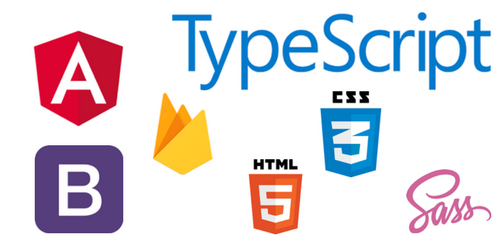
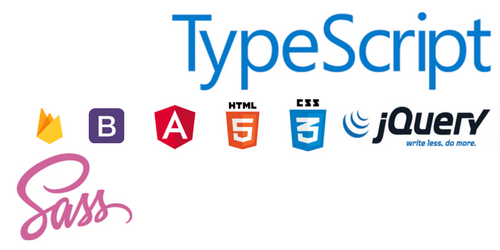
README.md

diff --git a/README.md b/README.md
@@ -6,9 +6,24 @@
     <img src="src/assets/img/header.png" alt="Nerd Fonts Logo" />
 </h1>
 
+## Basic Overview
+
+Client management system that integrated with firebase.
+
+<p align="center"><img width=95% src="src/assets/img/logo2.png"></p>
+
+<br>
+
 ## Code scaffolding
 
-Run `ng generate component component-name` to generate a new component. You can also use `ng generate directive|pipe|service|class|module`.
+- [Angular 4]().
+- [Firebase]().
+- [Flash Messages - Angular 2 Module]().
+- [Bootstrap 4 Alpha]().
+- [JQuery]().
+- [HTML5]()
+- [CSS3]()
+- [SASS]()
 
 ## Build
 
